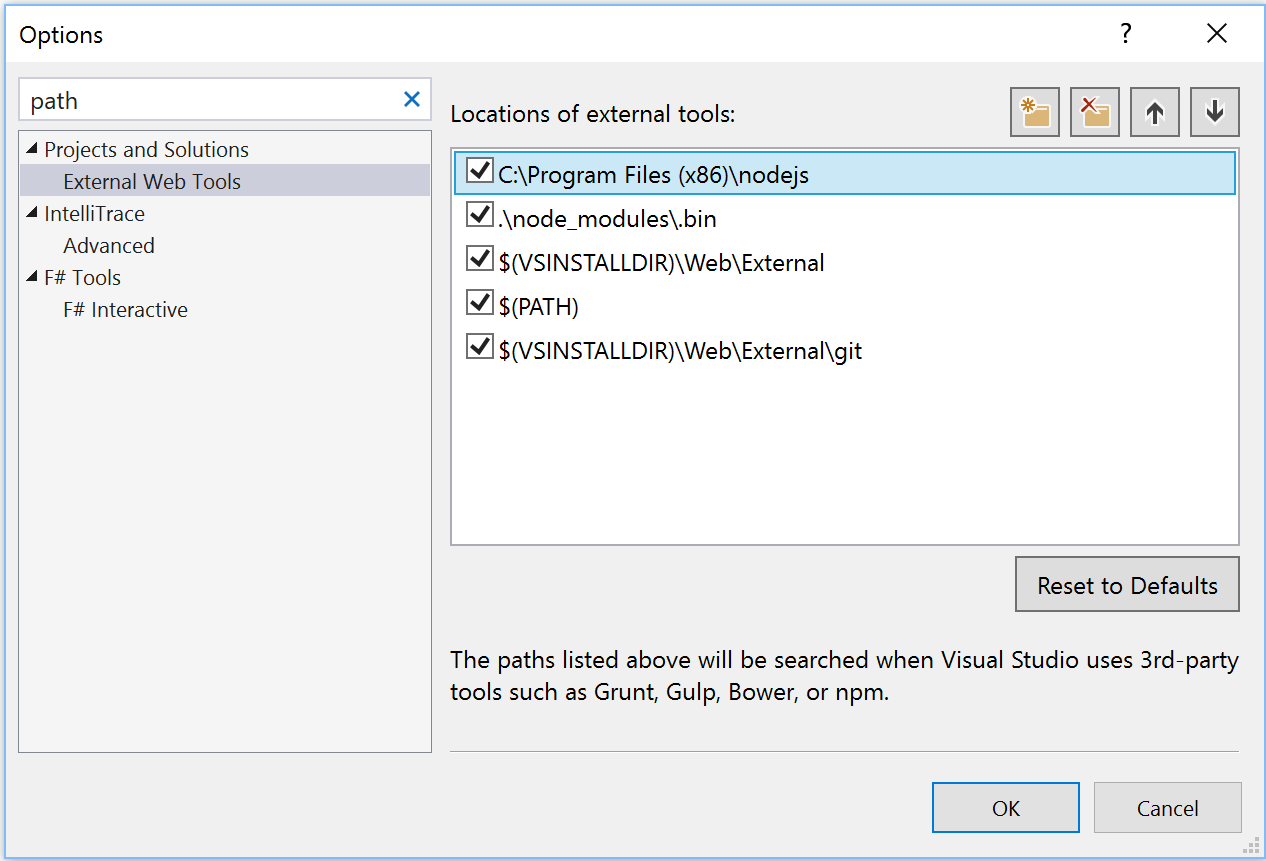
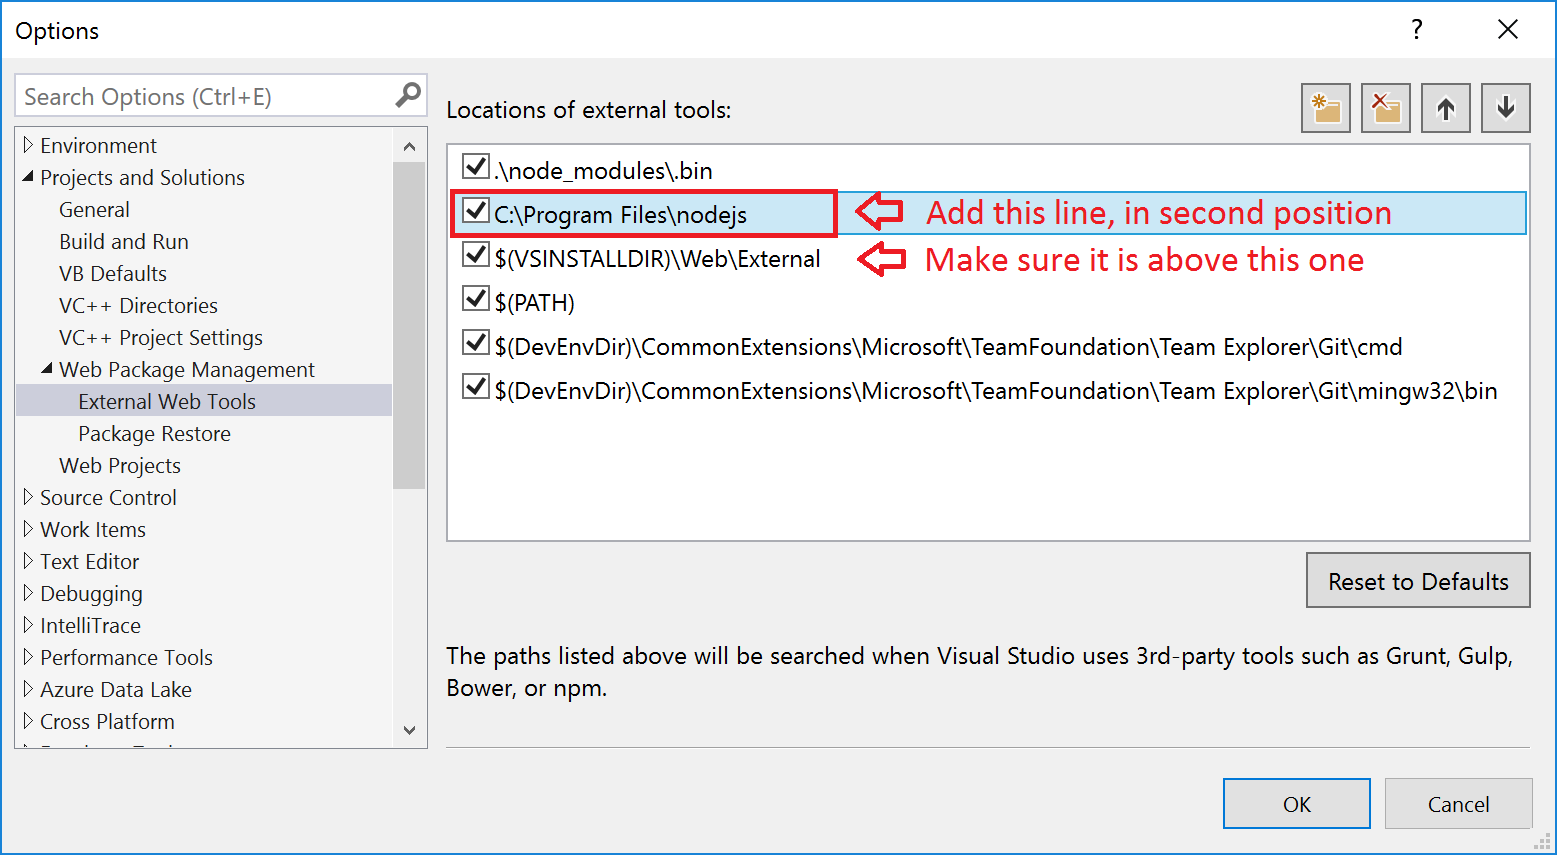
Setting up the SPA app

diff --git a/Setting-the-Web-SPA-application-up.md b/Setting-the-Web-SPA-application-up.md
@@ -1,2 +1,47 @@
 The Web SPA application needs a few additional steps to make it work due to its JavaScript frameworks dependencies and JS code to be built before generating the Docker Images.
 
+## Requirements and set up
+
+
+### Install NPM
+In order to be able to build the JavaScript dependencies from command line by using npm you need to install npm globally.
+
+NPM is bundled with NODE.JS. Installing NPM and NODE is pretty straightforward by using the installer package available at https://nodejs.org/en/
+
+<img src="img/spa/installing_npm_node.png">
+You can install the version "Recommended For Most Users" of Node which at the moment of this writing was v6.9.3 LTS and comes with a newer version of NPM.
+You can see the installed NPM version with the command <b>npm -v</b>, as shown below.
+<p>
+<img src="img/spa/npm-versions-powershell.png">
+
+### Set NPM path into Visual Studio
+NPM will be usually installed under this path:
+<b>C:\Program Files (x86)\nodejs</b>.
+You need to update that path in Visual Studio  under the "External Web Tools" location paths, as shown below:
+<p>
+<img src="img/spa/vs-tools-path-custom-node.png">
+If you don't do this step you might have issues because of using different versions from VS or command line.
+See:
+http://www.hanselman.com/blog/VisualStudio2015FixingDependenciesNpmNotInstalledFromFseventsWithNodeOnWindows.aspx
+
+
+### Build the SPA app with NPM
+Now, you need to build the SPA app (TypeScript and Angular 2 based client app) with NPM.
+* Open a command-prompt window and move to the root of the SPA application (src\Web\WebSPA\eShopOnContainers.WebSPA)
+* Run the command <b>npm run build:prod</b> as shown below:
+<p>
+<img src="img/spa/npm-run-build.png">
+
+If you get an error like <b>"Node Sass could not find a binding for your current environment: Windows 64-bit with Node.js 6.x"</b>, then run the command <b>npm rebuild node-sass</b> as in the following screenshot:
+<img src="img/spa/npm-rebuild-node-sass.png">
+Then, run again the <b>npm run build:prod</b> command that should finish with no errors.
+
+
+### Build the Docker images and Deploy the containers
+At this point you can choose between any of the two following options to build and deploy the Docker containers:
+1. VS 2017 based: Build and deploy in a single step from Visual Studio 2017 as explained in this page: https://github.com/dotnet/eShopOnContainers/wiki/Setting-eShopOnContainer-solution-up-in-a-Visual-Studio-2017-environment 
+2. CLI in Windows: Build the .NET bits with the dontnet CLI by using the Windows PowerShell script build-bits.ps1, then create the Docker images and deploy to the Docker host with "docker compose up/build", as explained in this page: https://github.com/dotnet/eShopOnContainers/wiki/Setting-the-eShopOnContainers-solution-up-in-a-Windows-CLI-environment-(dotnet-CLI,-Docker-CLI-and-VS-Code)
+3. CLI in Mac: Build the .NET bits with the dontnet CLI by using the Mac Bash script 
+build-bits.sh, then create the Docker images and deploy to the Docker host with "docker compose up/build", as explained in this page: https://github.com/dotnet/eShopOnContainers/wiki/Setting-eShopOnContainer-solution-up-in-a-Mac,-VS-Code-and-CLI-environment
+
+
